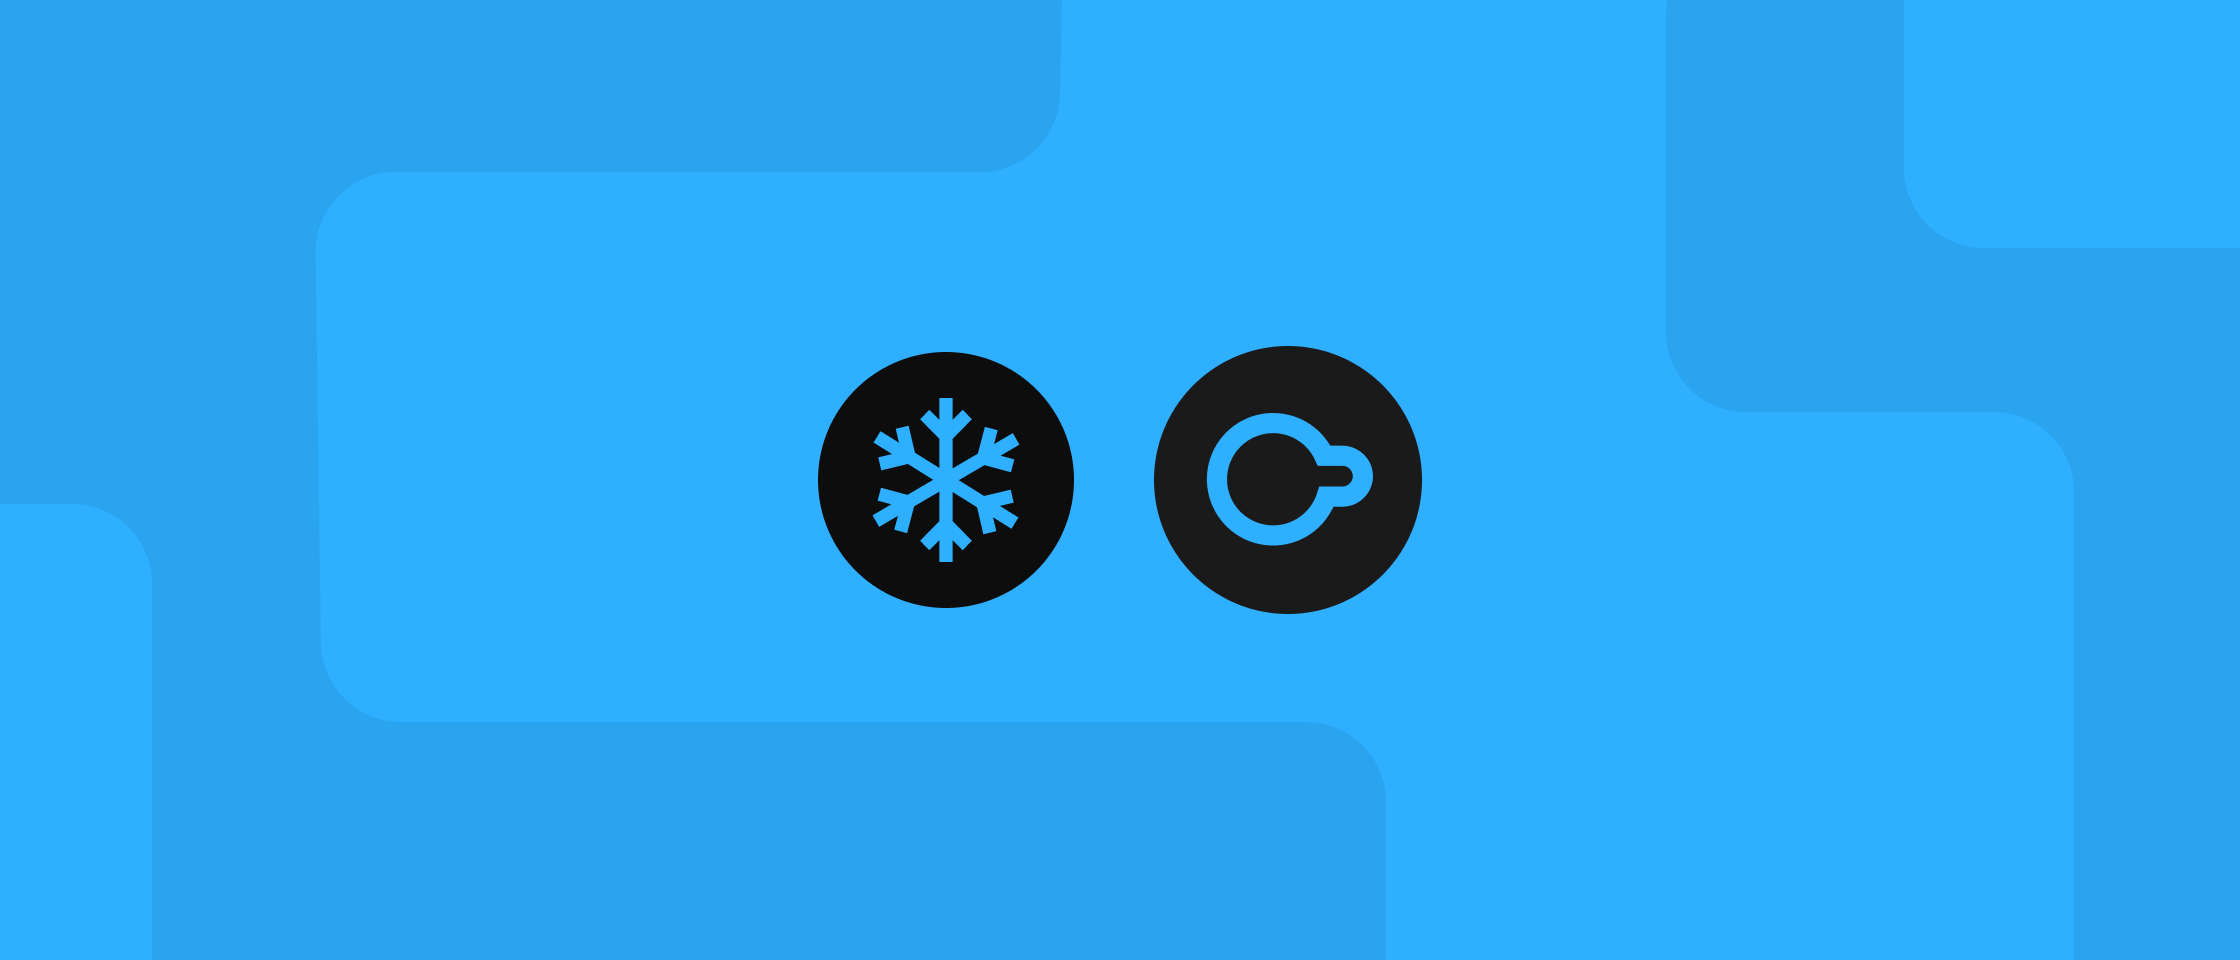
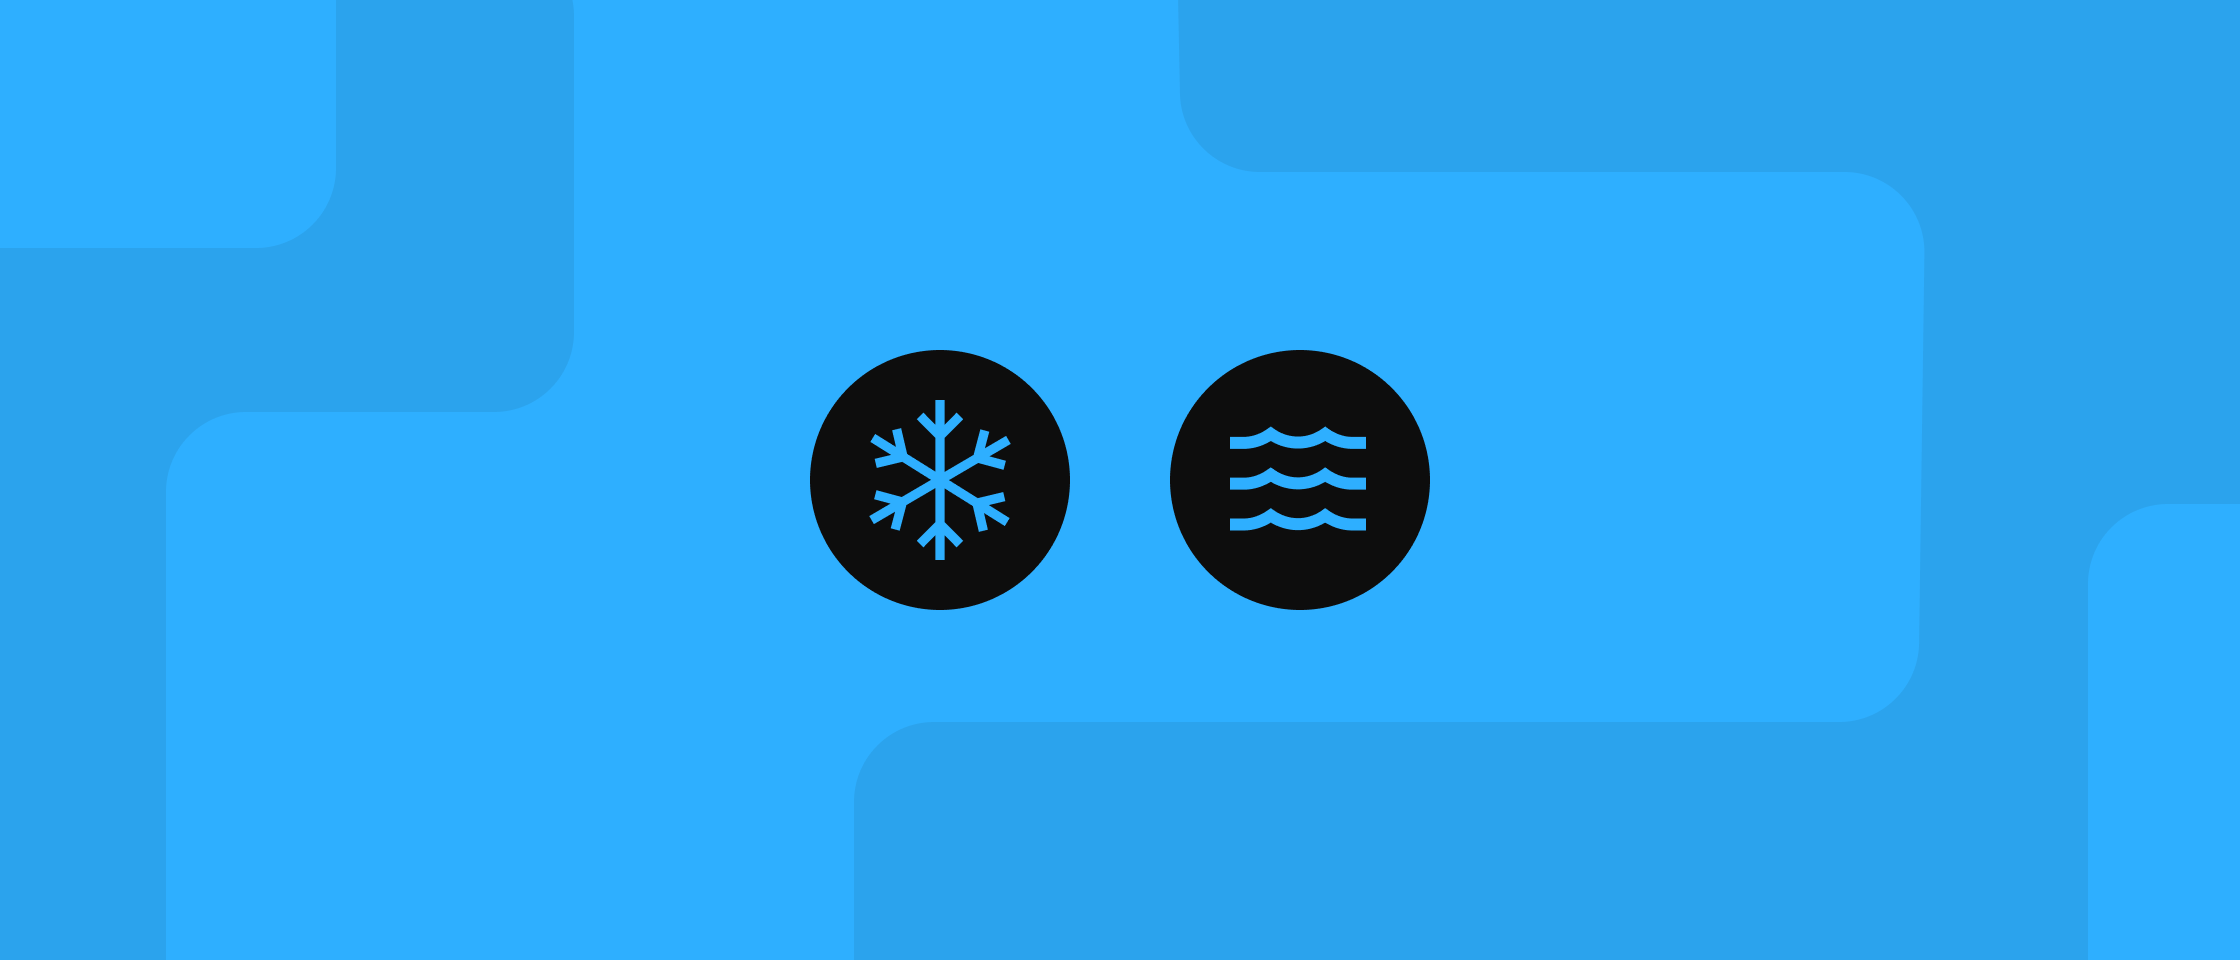
Cross-link blog post

diff --git a/_posts/2025-10-24-frozen-ducklake.md b/_posts/2025-10-24-frozen-ducklake.md
@@ -1,0 +1,10 @@
+---
+layout: post
+title: "Frozen DuckLakes for Multi-User, Serverless Data Access"
+author: "Mark Harrison (Madhive Data Engineering)"
+external_post_url: "https://ducklake.select/2025/10/24/frozen-ducklake/"
+thumb: "/images/blog/thumbs/frozen-ducklake.svg"
+image: "/images/blog/thumbs/frozen-ducklake.png"
+excerpt: "We show how you can build high-performance data lakes with no moving parts."
+tags: ["extensions"]
+---
